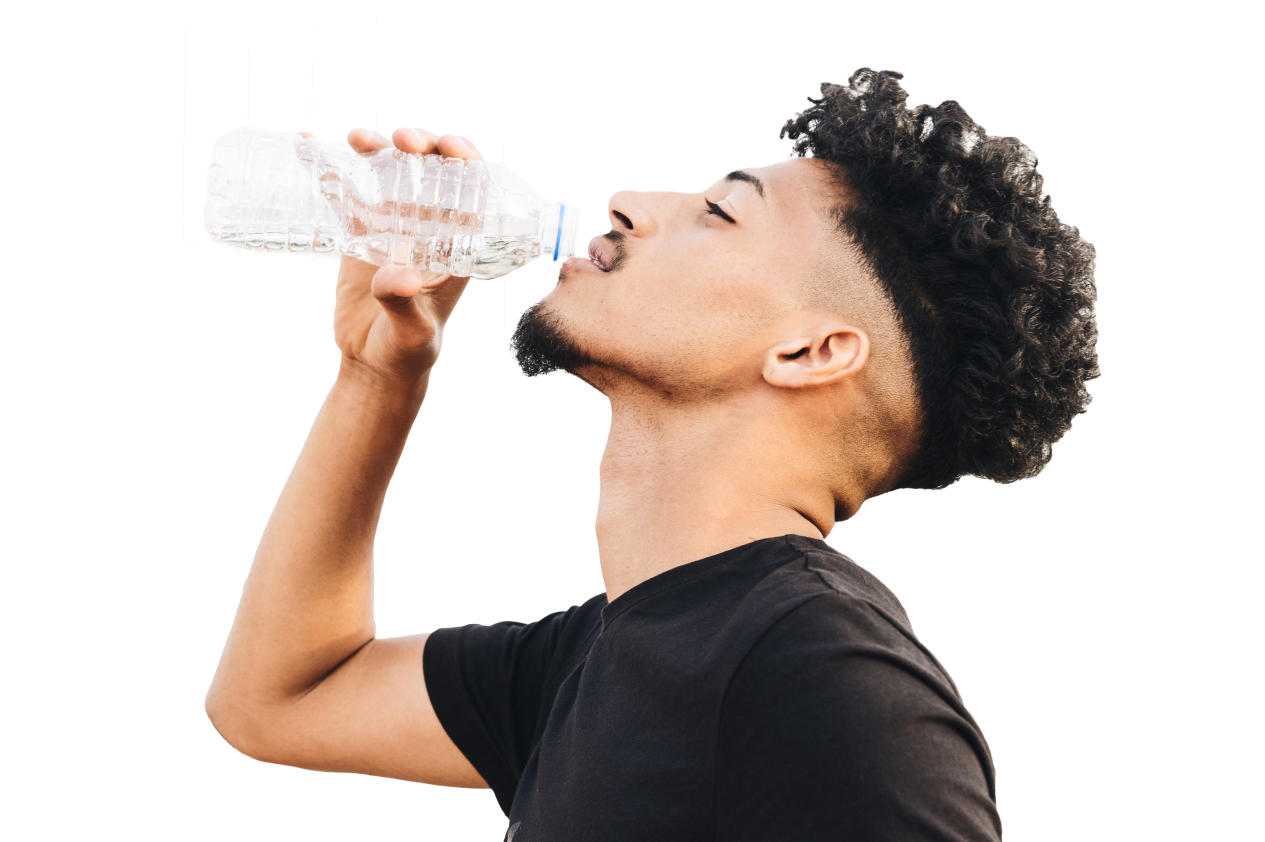
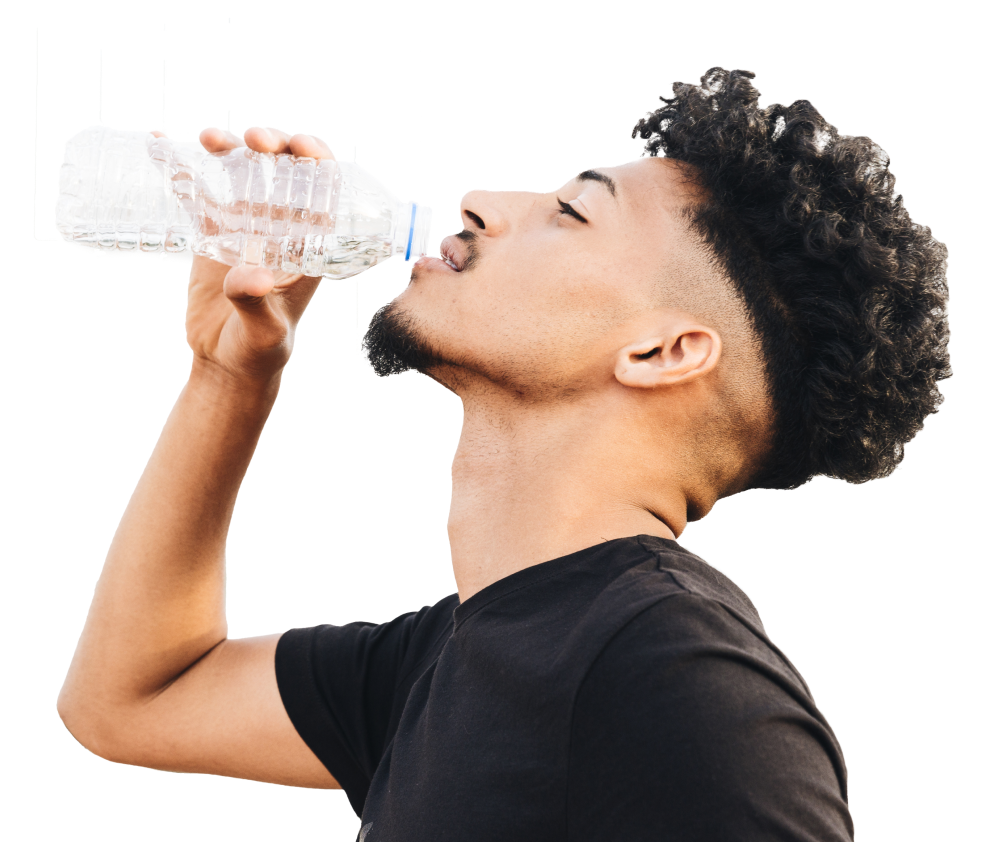
search

diff --git a/index.html b/index.html
@@ -4,22 +4,7 @@
     <meta charset="UTF-8">
     <meta http-equiv="X-UA-Compatible" content="IE=edge">
     <meta name="viewport" content="width=device-width, initial-scale=1.0">
-    <link rel="apple-touch-icon" sizes="57x57" href="/apple-icon-57x57.png">
-    <link rel="apple-touch-icon" sizes="60x60" href="/apple-icon-60x60.png">
-    <link rel="apple-touch-icon" sizes="72x72" href="/apple-icon-72x72.png">
-    <link rel="apple-touch-icon" sizes="76x76" href="/apple-icon-76x76.png">
-    <link rel="apple-touch-icon" sizes="114x114" href="/apple-icon-114x114.png">
-    <link rel="apple-touch-icon" sizes="120x120" href="/apple-icon-120x120.png">
-    <link rel="apple-touch-icon" sizes="144x144" href="/apple-icon-144x144.png">
-    <link rel="apple-touch-icon" sizes="152x152" href="/apple-icon-152x152.png">
-    <link rel="apple-touch-icon" sizes="180x180" href="/apple-icon-180x180.png">
-    <link rel="icon" type="image/png" sizes="192x192"  href="/android-icon-192x192.png">
     <link rel="icon" type="image/png" sizes="32x32" href="/favicon-32x32.png">
-    <link rel="icon" type="image/png" sizes="96x96" href="/favicon-96x96.png">
-    <link rel="icon" type="image/png" sizes="16x16" href="/favicon-16x16.png">
-    <link rel="manifest" href="/manifest.json">
-    <meta name="msapplication-TileColor" content="#ffffff">
-    <meta name="msapplication-TileImage" content="/ms-icon-144x144.png">
     <meta name="theme-color" content="#ffffff">
     <link rel="preconnect" href="https://fonts.gstatic.com"> 
     <link href="https://fonts.googleapis.com/css2?family=Darker+Grotesque:wght@300;400;500;600;700;800;900&display=swap" rel="stylesheet">
@@ -44,12 +29,11 @@
 
             <div class="busqueda-container flex busqueda-color align-center">
                 <img src="img/Buscar.png" alt="lupa de busqueda" height="18px">
-                <!--<form class="flex align-center">
-                    <label class="align-center flex">
-                        <input type="search" placeholder="Buscar">
+                <form class="flex align-center busqueda-form">
+                    <label class="align-center flex busqueda-label">
+                        <input type="search" placeholder="Buscar" class="busqueda-input">
                     </label>
                 </form>
-                <input type=button name=boton value=salir onclick="window.close()">-->
             </div>
         </div>
     </header>
@@ -61,8 +45,8 @@
             <div>
                 <p class="main-slogan">Tu nueva forma de vida</p>
             </div>
-            <div class="main-img flex">
-                <img src="img/Joven bebiendo agua.png" alt="Joven bebiendo agua" height="600px">
+            <div class="flex">
+                <img src="img/Joven bebiendo agua.png" alt="Joven bebiendo agua" class="main-img">
             </div>
         </section>
         <section class="section-skincare flex">

diff --git a/style.css b/style.css
@@ -1,5 +1,3 @@
-@media (max-width: 768px) {}
-
 *{
     margin: 0;
     padding: 0;
@@ -75,6 +73,17 @@ body{
     border-radius: 161px;
     padding: 0px 0px 0px 10px;
 }
+  
+.busqueda-input{
+    margin-left: 5%;
+    align-items: center;
+    border: none;
+    background-color: #FCFCFC;
+}
+
+input:focus-visible {
+    outline-style: none;
+}
 
 .main{
     margin: 0 auto;
@@ -84,16 +93,17 @@ body{
 
 .main-portada{
     margin: 0 auto;
-    width: 70%;
+    max-width: 50%;
 }
 
 .main-img{
-    align-items: flex-end;
     justify-content: center;
     width: 100%;
+    height: auto;
 }
 
 .main-greenlife{
+    max-width: 100%;
     font-family: DIN Condensed;
     font-style: normal;
     font-weight: bold;
